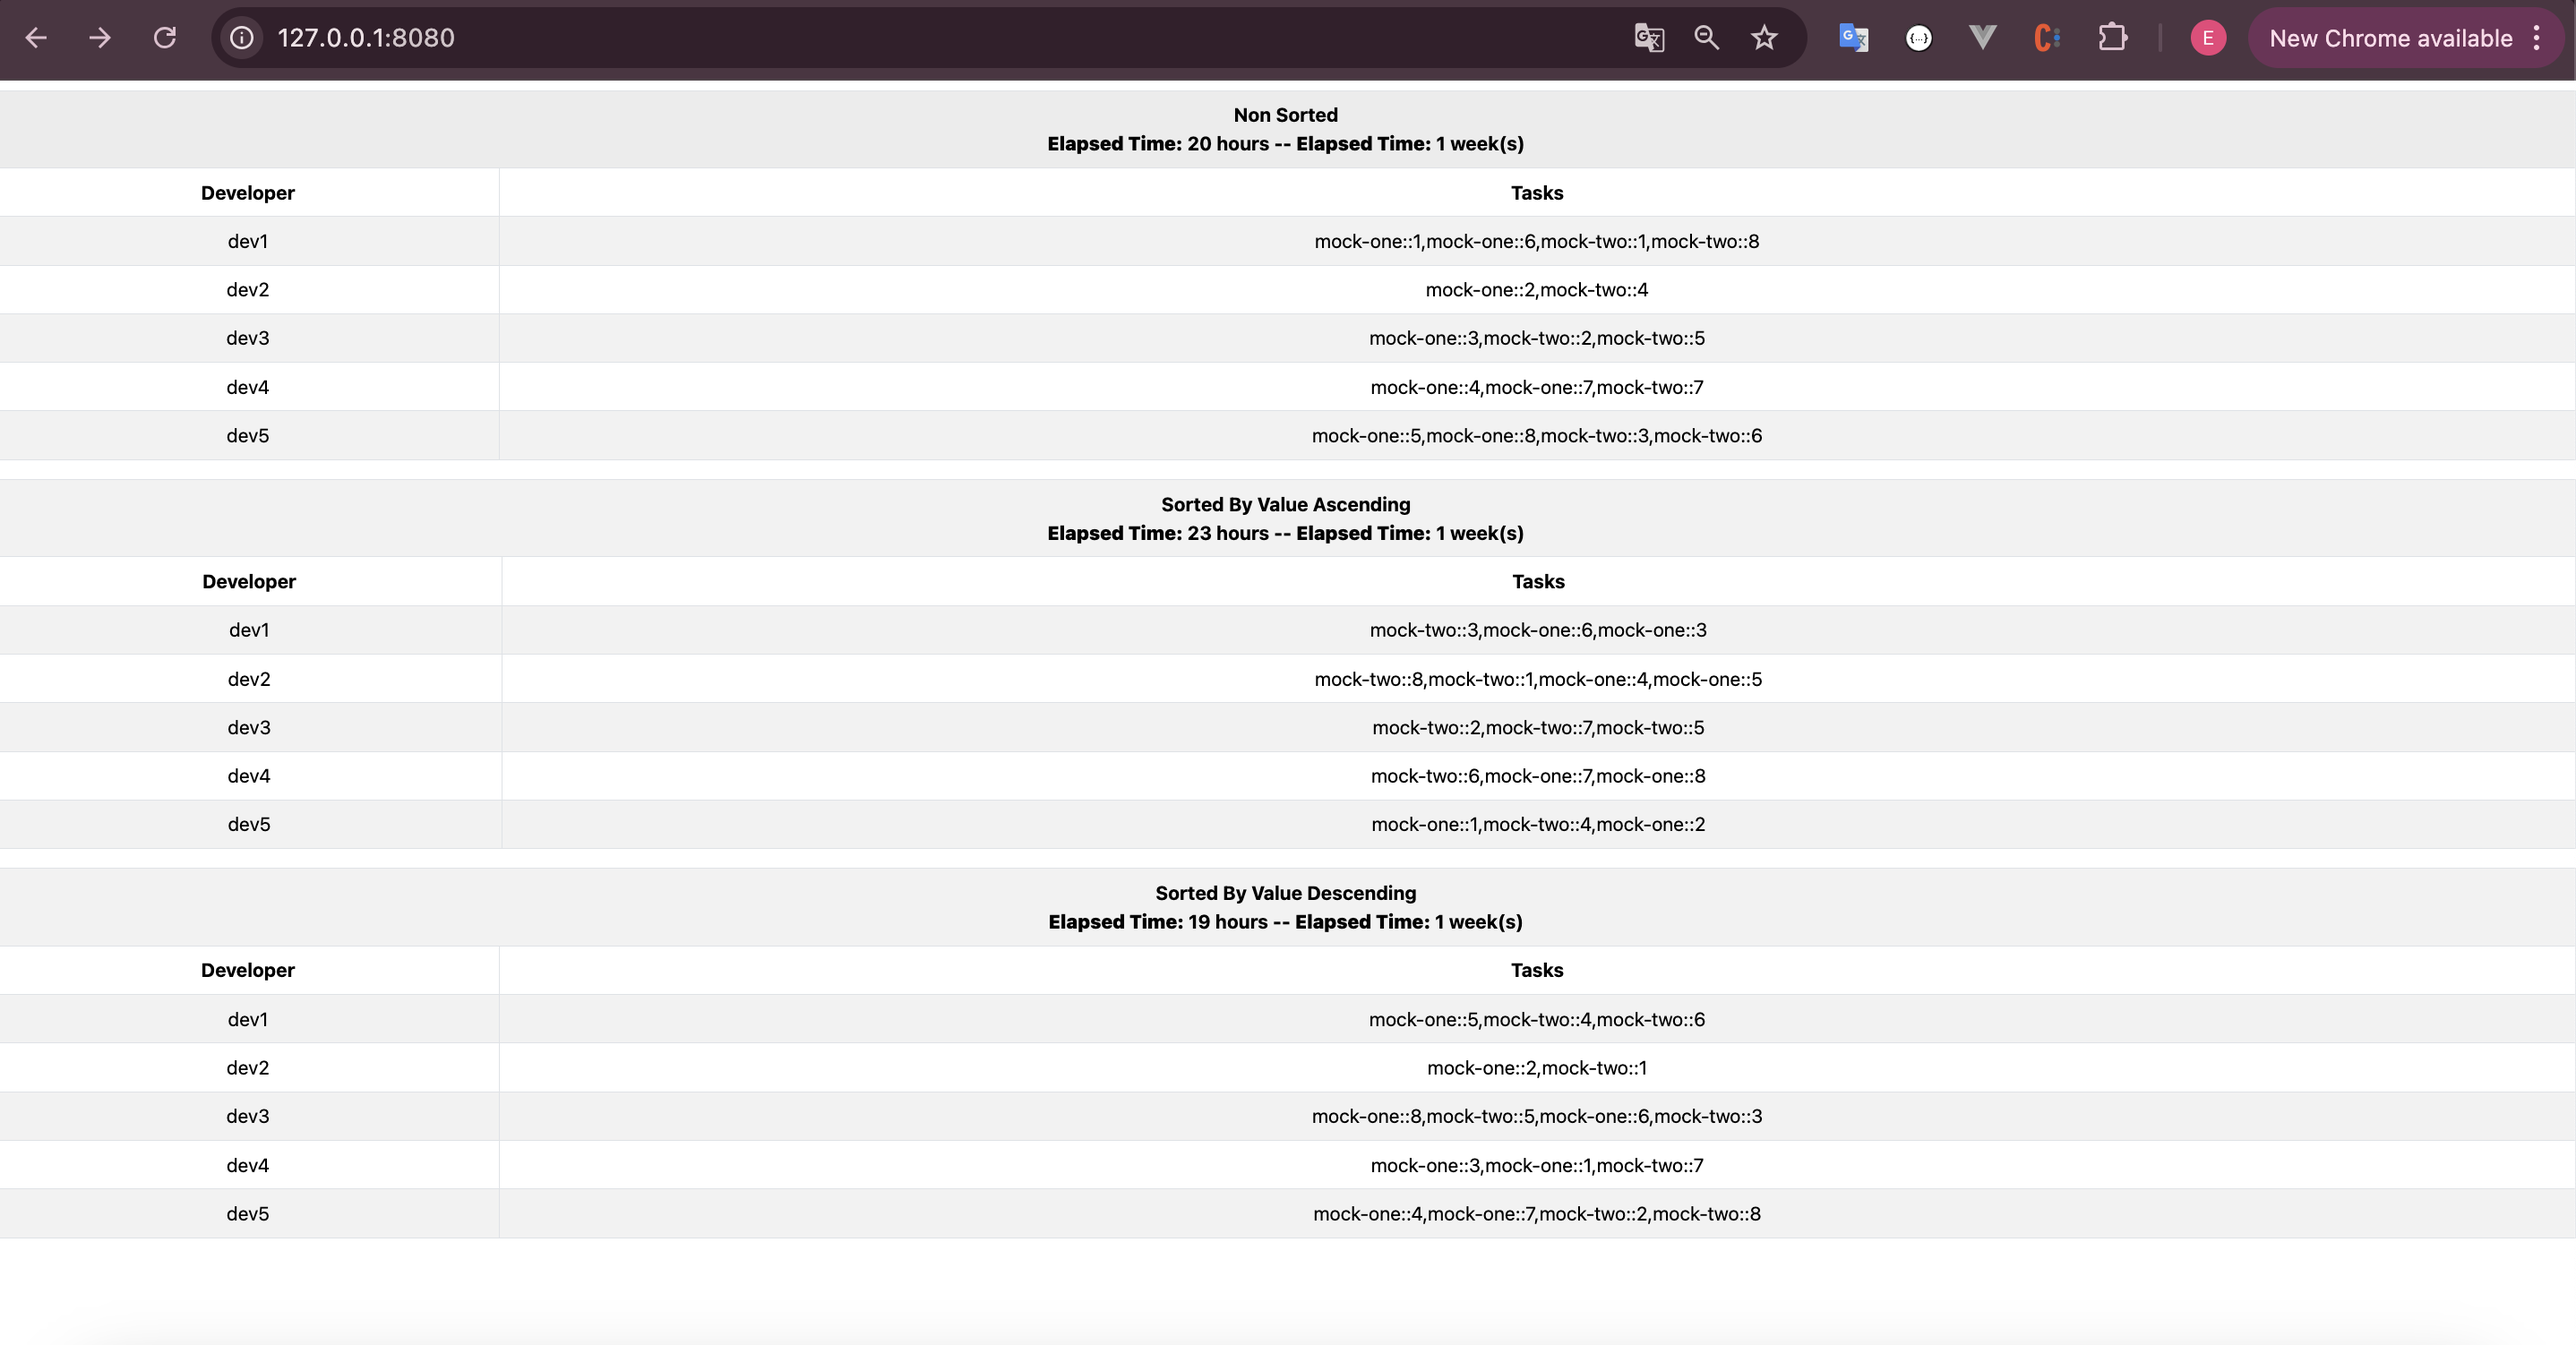
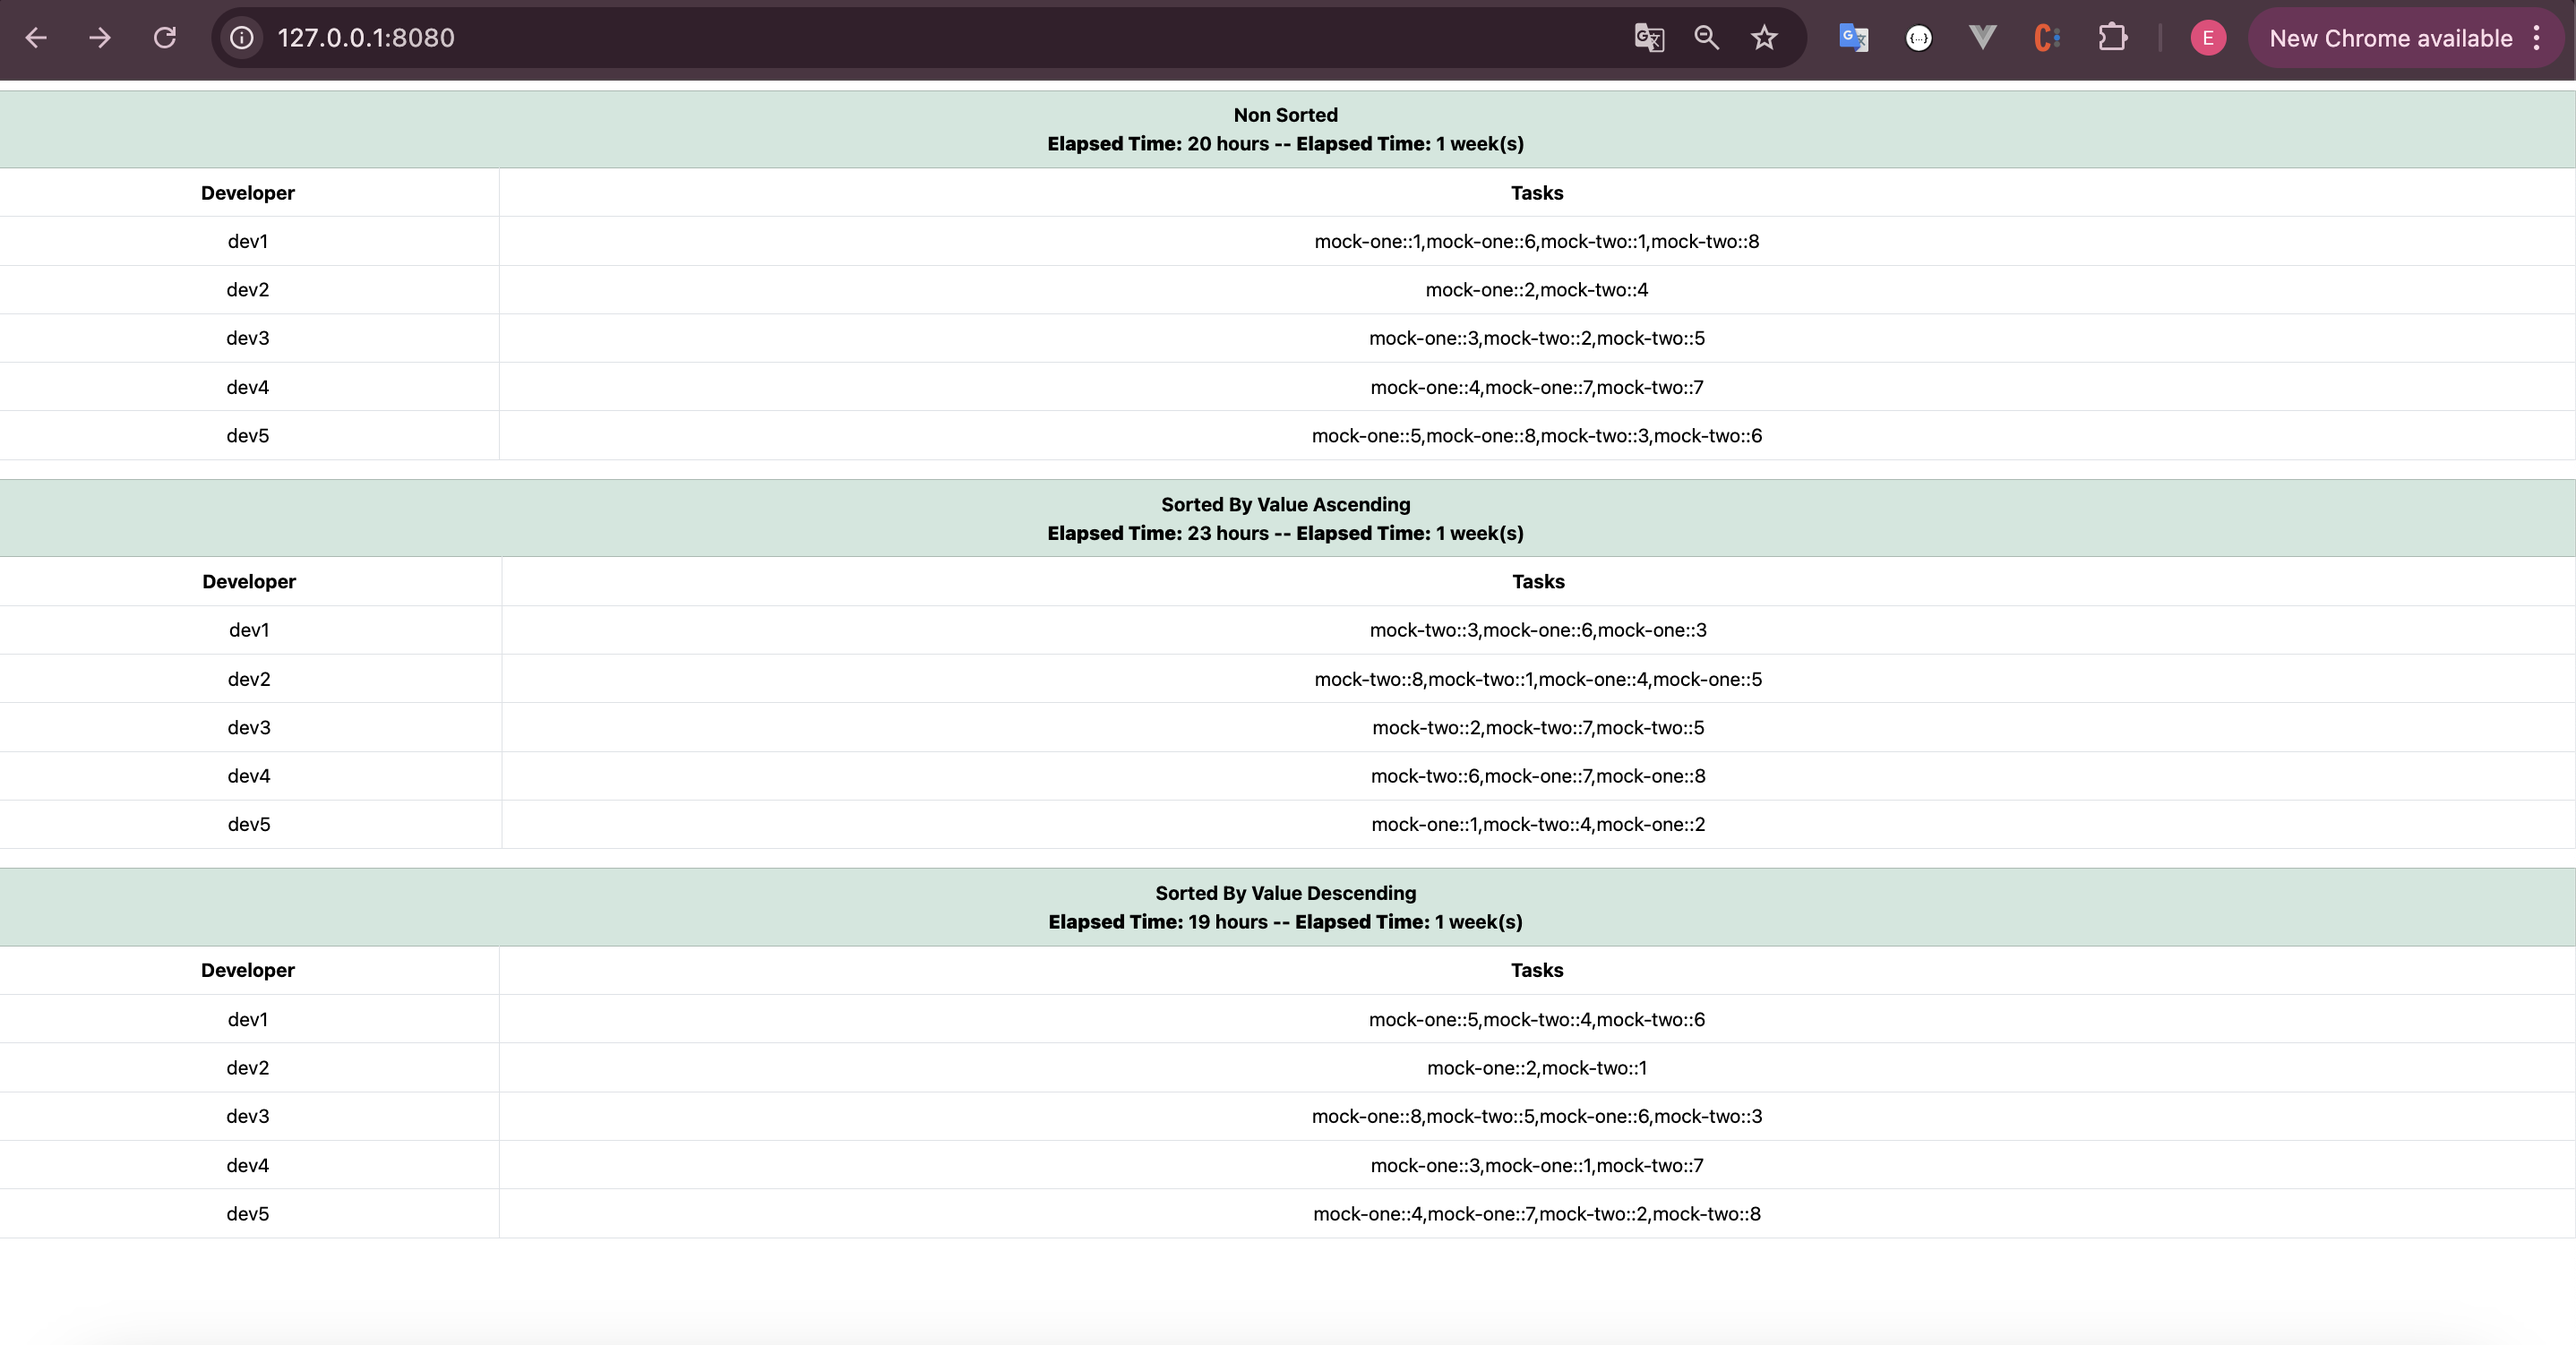
table color changed

Changed region(s): [[0.0, 0.3369, 1.0, 0.4288], [0.0, 0.6431, 1.0, 0.7044]]

diff --git a/resources/views/welcome.blade.php b/resources/views/welcome.blade.php
@@ -11,8 +11,8 @@
 <body>
     @foreach($solutions as $key => $solution)
     <h1></h1>
-    <table class="table table-striped table-hover text-center table-bordered">
-        <tr>
+    <table class="table table-hover text-center table-bordered">
+        <tr class="table-success">
             <th colspan="2">
                 {{ $key }} <br>
                 <strong>Elapsed Time:</strong> {{ $solution['elapsedTime'] }} hours 
